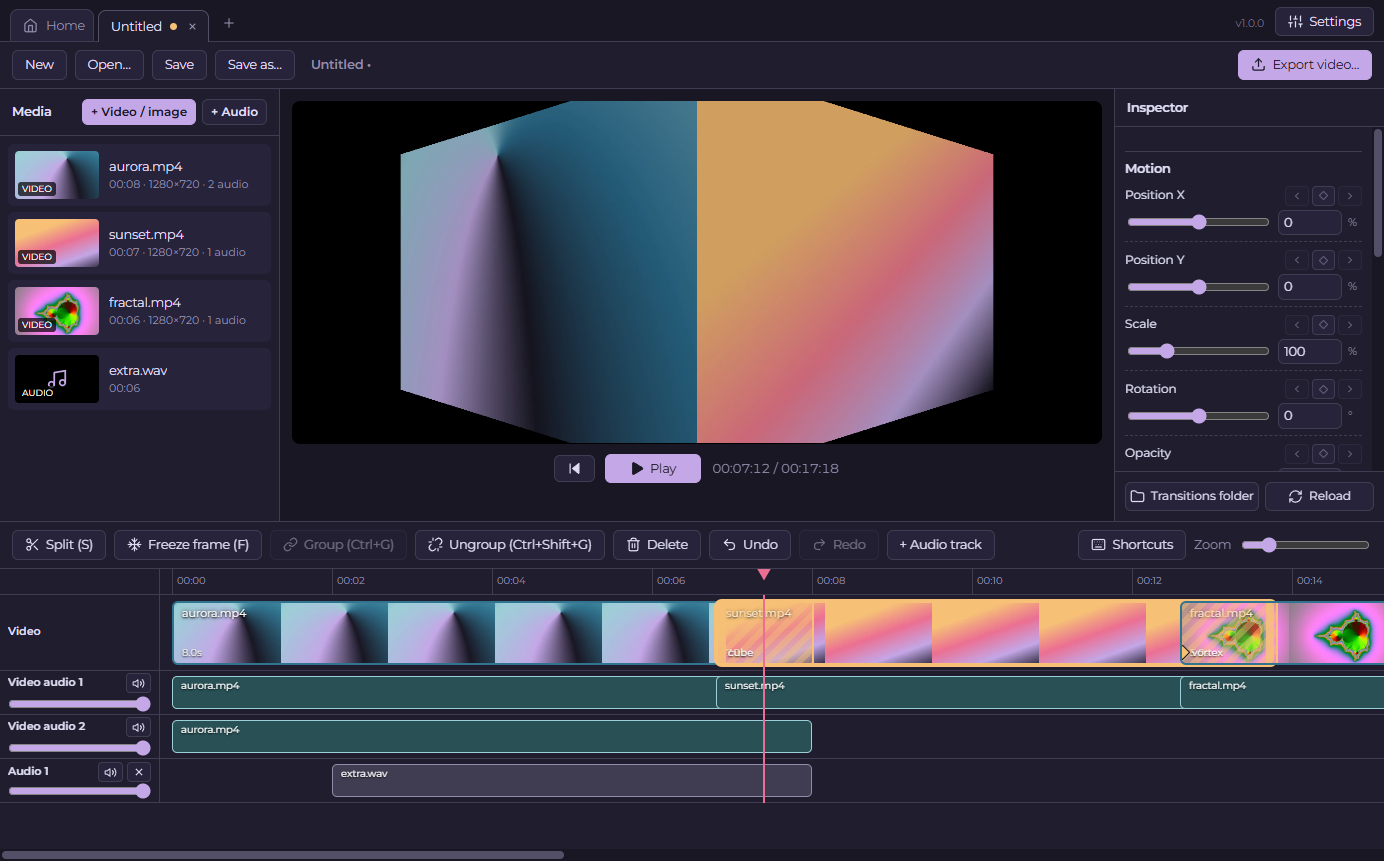
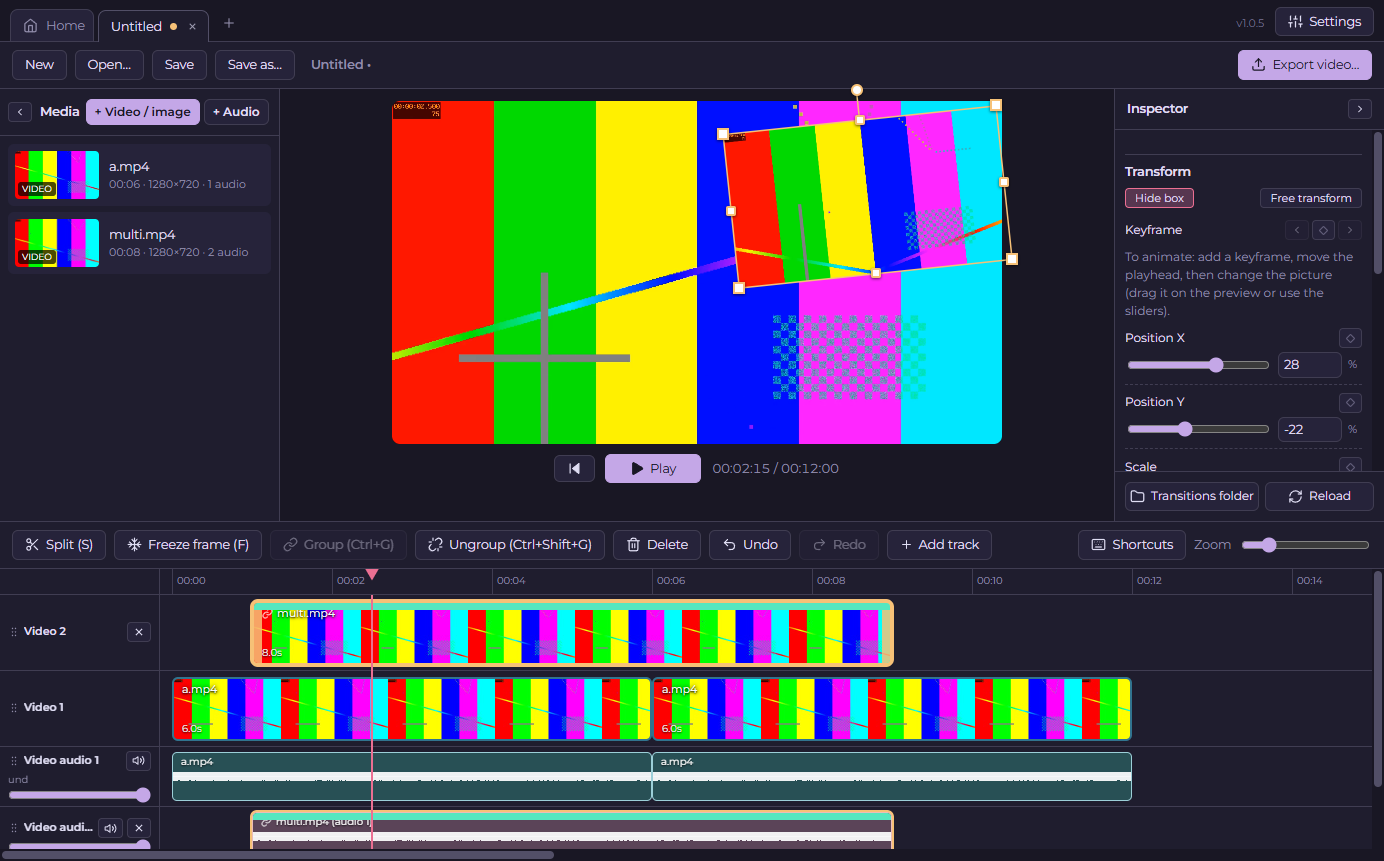
1.1.0: big update. README and screenshot refreshed

diff --git a/README.md b/README.md
@@ -51,12 +51,14 @@
 - **Select like in Explorer:** drag a box around clips and audio to select several, or hold Ctrl/Shift to add to the selection.
 - **Groups:** group any mix of video and audio clips so they move together; ungroup when you are done.
 - **Freeze frame:** save the exact frame under the playhead as an image and insert it. Drag its edge (or type seconds) to hold it as long as you like.
-- **Motion keyframes:** animate **position, scale, rotation and opacity** with seven easing styles (linear, smooth, ease in, ease out, overshoot, bounce, hold). Keyframes show as diamonds on the timeline, and you can drag them to retime.
-- **Transform box:** drag on the preview to move, shrink or rotate a clip; **Free transform** stretches it. Add a keyframe, move the playhead, change it again, and pick an easing (or draw your own **Custom curve**).
-- **Funny warp:** drag the four corners of the picture anywhere to bend it, with keyframes.
-- **Overlay video tracks:** **Add track → Video** makes a layer that sits on top of the video below it. Clips there can start at any time. Drag any track by its label to move it up or down, and double-click a track name to rename it.
-- **Waveforms:** audio lanes show the loudness of each clip, so you can see where the sound starts and stops.
-
+- **Transform box:** select a clip and a box appears on the preview. Drag inside it to **move**, drag a corner inwards to make the picture **smaller** (outwards for bigger), and drag the round handle to **rotate**. Press **Free transform** to let the corners (and the side handles) **stretch** the picture wider or taller instead.
+- **Keyframes made easy:** press the diamond to add a keyframe, move the playhead, then change the picture (drag it on the preview or use the sliders). Another keyframe is added for you. Position, scale, stretch, rotation and opacity animate together, and each can also have its own diamond. Keyframes show on the timeline and can be dragged to retime.
+- **Easing:** choose how the change between two keyframes feels: linear, smooth, ease in, ease out, overshoot, bounce, hold, or **Custom curve**, which shows a graph where you drag two handles to draw your own easing.
+- **Funny warp:** drag the four corners of the picture anywhere to bend it (a corner pin), also with keyframes and easing.
+- **Overlay video tracks:** **Add track** asks for a **Video** or **Audio** track. A video track is a layer that sits on top of the one below it, and its clips can start at any time (picture-in-picture, stickers, reaction videos). A video's own sound comes along as grouped audio.
+- **Rearrange and rename tracks:** drag any track by its label to move it up or down (higher video tracks are drawn on top, and you can pull audio tracks up next to the video). Double-click a track's name to rename it.
+- **Waveforms:** audio clips show their sound as a sharp waveform (drawn like DaVinci Resolve's), so you can see where speech or a beat starts and stops.
+- **Hide panels:** the Media and Inspector panels can be folded away to give the preview more room.
 ### Transitions
 - **18 PowerPoint-style transitions**, where the whole frame does the effect: cube, doors, curtains, page curl, peel, fall over, fracture, shred, crush, wind, vortex, ripple, spin, rotate, push, wipe, zoom and fade.
 - Pick one per cut and set its length (0.2 to 4 seconds). Preview it with one click.
@@ -72,7 +74,8 @@
 
 ### Projects
 - **Save and open** projects as `.json` files. Your videos are referenced, not copied.
-- **Autosave** every 15 seconds. If the editor closes before you save, it offers to bring the work back.
+- **Projects folder:** new projects are saved in **Documents > Vibe Video Editor Projects** by default. The Home page has a **Projects folder** button that opens it.
+- **Autosave** every 15 seconds. If the editor closes before you save (or restarts for an update), the project **comes back by itself** the next time you open it.
 - **Home page** with your recent projects, and **tabs** so you can work on several projects at once.
 
 ### Export
@@ -93,11 +96,12 @@ The editor can tell you when a new version is out, and it **never downloads anyt
 
 **Checking for updates**
 - Click **Settings** (top right), then **Check now**. The version number next to it also opens Settings.
-- Or just wait: with automatic updates on, it checks a few seconds after the editor starts and every few hours.
+- Or just wait: with automatic updates on, it checks once, right when the editor opens.
 
 **When there is an update** a window pops up with two choices:
 - **Download** shows a progress bar, then **Restart now** or **Later** (if you pick Later, it installs the next time you close the editor).
-- **Remind me later** closes the window and asks again in about 4 hours. A small **Update** button stays in the top bar.
+- **Remind me later** closes the window and asks again the next time you open the editor. A small **Update** button stays in the top bar.
+- The window lists **what is new** in short bullet points.
 
 **Turning automatic updates on or off**
 - Open **Settings** (top right) and use the **Automatic updates** switch. It is **on by default**.

diff --git a/RELEASE_NOTES.md b/RELEASE_NOTES.md
@@ -1,7 +1,7 @@
-- New: on-preview Transform box. Drag to move, drag a corner inwards to shrink, drag the round handle to rotate
-- New: Free transform button lets the corners stretch the picture wider or taller
-- One keyframe button for everything, and a Custom curve easing with a graph you can draw
-- The old Warp is now called Funny warp
-- Waveforms are sharper and look more like DaVinci's
-- Media and Inspector panels can be hidden, and the preview no longer has black bars
-- Projects now save to Documents > Vibe Video Editor Projects (Home has a button for it), and unsaved projects come back automatically after an update
+- BIG UPDATE: the biggest one so far
+- Transform box on the preview: drag to move, shrink or rotate, and Free transform to stretch
+- Overlay video tracks (Add track > Video), and you can drag tracks up and down and rename them
+- Keyframes made easy: one diamond for everything, plus a Custom curve easing graph you can draw
+- Funny warp: bend the picture by its four corners
+- Sharper waveforms, hideable side panels, and a Projects folder in Documents
+- Unsaved projects now come back by themselves after an update
